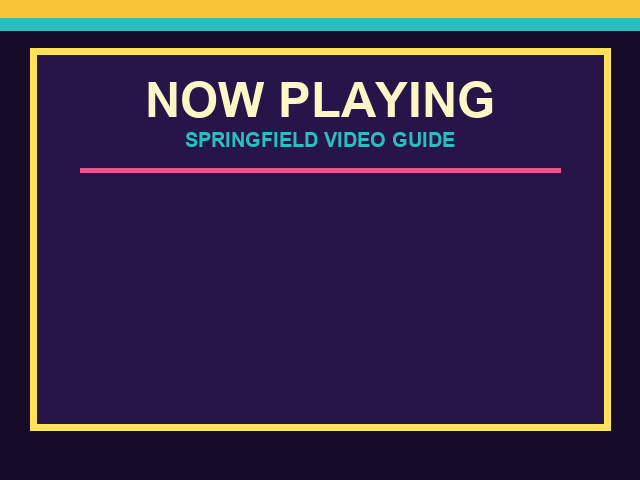
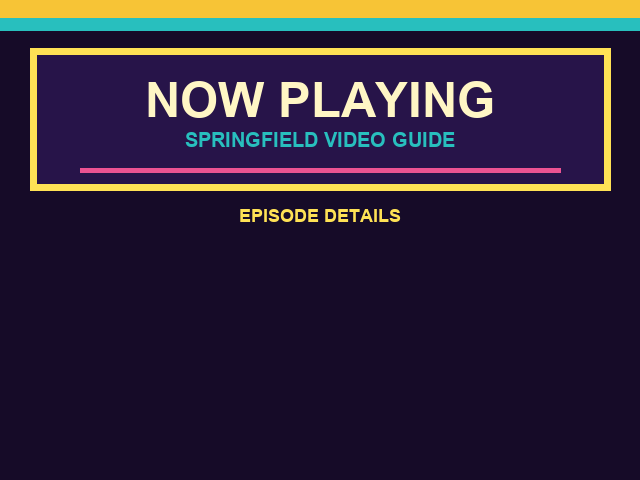
Refine touch timing and info overlay

diff --git a/touch_control.py b/touch_control.py
@@ -39,6 +39,7 @@ def load_touch_config():
         "swipe_axis_ratio": 1.5,
         "menu_hold_seconds": 2.0,
         "shutdown_hold_seconds": 3.0,
+        "info_alpha": 170,
     }
     try:
         with (REPOSITORY_ROOT / "config" / "touch.json").open() as config_file:
@@ -122,7 +123,9 @@ def run():
     tracker = MultiTouchTracker()
     menu = None
     info_overlay = OmxInfoOverlay(
-        REPOSITORY_ROOT / "assets", REPOSITORY_ROOT / "runtime"
+        REPOSITORY_ROOT / "assets",
+        REPOSITORY_ROOT / "runtime",
+        alpha=touch_config["info_alpha"],
     )
     menu_open = False
     menu_armed = False
@@ -148,6 +151,34 @@ def run():
         ),
         flush=True,
     )
+
+    def open_channel_menu():
+        nonlocal menu, menu_open, menu_armed, menu_page, menu_deadline
+        try:
+            info_overlay.close()
+            state_store.set_menu_open(True)
+            time.sleep(0.4)
+            menu = OmxChannelMenu(REPOSITORY_ROOT / "assets")
+            active_channel = state_store.load().channel_id
+            menu_page = page_for_channel(active_channel)
+            menu.show(active_channel, page=menu_page)
+            menu_open = True
+            menu_armed = False
+            gesture_detector.reset()
+            menu_deadline = time.monotonic() + MENU_TIMEOUT_SECONDS
+            print("Channel menu opened", flush=True)
+        except Exception as error:
+            gesture_detector.reset()
+            if menu is not None:
+                menu.close()
+                menu = None
+            state_store.set_menu_open(False)
+            channel_id = toggle_treehouse_channel(state_store)
+            print(
+                "Menu unavailable (%s); selected channel: %s"
+                % (error, channel_id),
+                flush=True,
+            )
 
     try:
         while True:
@@ -179,36 +210,7 @@ def run():
                         gesture_detector.reset()
 
                     if not menu_open:
-                        hold_contacts = (
-                            tracker.active_count if gesture_detector.hold_eligible else 0
-                        )
-                        if detector.update(hold_contacts, event.timestamp()):
-                            try:
-                                info_overlay.close()
-                                state_store.set_menu_open(True)
-                                time.sleep(0.4)
-                                menu = OmxChannelMenu(REPOSITORY_ROOT / "assets")
-                                active_channel = state_store.load().channel_id
-                                menu_page = page_for_channel(active_channel)
-                                menu.show(active_channel, page=menu_page)
-                                menu_open = True
-                                menu_armed = False
-                                gesture_detector.reset()
-                                menu_deadline = time.monotonic() + MENU_TIMEOUT_SECONDS
-                                print("Channel menu opened", flush=True)
-                            except Exception as error:
-                                gesture_detector.reset()
-                                if menu is not None:
-                                    menu.close()
-                                    menu = None
-                                state_store.set_menu_open(False)
-                                channel_id = toggle_treehouse_channel(state_store)
-                                print(
-                                    "Menu unavailable (%s); selected channel: %s"
-                                    % (error, channel_id),
-                                    flush=True,
-                                )
-                        elif (
+                        if (
                             mapped_released_position is not None
                             and tracker.active_count == 0
                         ):
@@ -216,40 +218,34 @@ def run():
                                 mapped_released_position, event.timestamp()
                             )
                             _log_gesture(gesture, "playback")
-                            if gesture is not None and gesture.kind == "tap":
+                            if (
+                                gesture is not None
+                                and gesture.kind == "tap"
+                                and gesture.duration
+                                < float(touch_config["menu_hold_seconds"])
+                            ):
                                 details = now_playing_store.load()
                                 if details is None:
                                     print("Now-playing details unavailable", flush=True)
                                 else:
                                     try:
-                                        info_overlay.show_details(details)
-                                        print(
-                                            "Now-playing card: %s"
-                                            % details["episode_id"],
-                                            flush=True,
-                                        )
+                                        if info_overlay.show_details(details):
+                                            print(
+                                                "Now-playing card: %s"
+                                                % details["episode_id"],
+                                                flush=True,
+                                            )
+                                        else:
+                                            print(
+                                                "Now-playing card already visible",
+                                                flush=True,
+                                            )
                                     except Exception as error:
                                         print(
                                             "Now-playing card unavailable (%s)" % error,
                                             flush=True,
                                         )
                     else:
-                        shutdown_contact = False
-                        if menu_armed and active_position is not None:
-                            shutdown_contact = shutdown_at(active_position)
-                        if shutdown_detector.update(
-                            1
-                            if shutdown_contact and gesture_detector.hold_eligible
-                            else 0,
-                            event.timestamp(),
-                        ):
-                            print("Safe shutdown requested", flush=True)
-                            _request_shutdown(menu, state_store)
-                            menu_open = False
-                            menu = None
-                            detector.update(0, event.timestamp())
-                            continue
-
                         if not menu_armed and tracker.active_count == 0:
                             # Ignore the release belonging to the opening hold.
                             menu_armed = True
@@ -294,6 +290,41 @@ def run():
                                     menu_open = _close_menu(menu, state_store)
                                     menu = None
                                     detector.update(0, event.timestamp())
+
+            # Goodix sends no events while a finger is perfectly still. Drive
+            # the hold timers from the polling clock so stationary holds still
+            # fire at their configured durations.
+            now = time.time()
+            if not menu_open:
+                hold_contacts = (
+                    tracker.active_count if gesture_detector.hold_eligible else 0
+                )
+                if detector.update(hold_contacts, now):
+                    open_channel_menu()
+            else:
+                active_raw_position = tracker.primary_position
+                active_position = (
+                    mapper.map(*active_raw_position)
+                    if active_raw_position is not None
+                    else None
+                )
+                shutdown_contact = (
+                    menu_armed
+                    and active_position is not None
+                    and shutdown_at(active_position)
+                )
+                if shutdown_detector.update(
+                    1
+                    if shutdown_contact and gesture_detector.hold_eligible
+                    else 0,
+                    now,
+                ):
+                    print("Safe shutdown requested", flush=True)
+                    _request_shutdown(menu, state_store)
+                    menu_open = False
+                    menu = None
+                    detector.update(0, now)
+                    continue
 
             if menu_open and time.monotonic() >= menu_deadline:
                 print("Channel menu timed out", flush=True)

diff --git a/tests/test_menu.py b/tests/test_menu.py
@@ -73,9 +73,9 @@ class MenuTests(unittest.TestCase):
             assets.mkdir()
             background = assets / "now_playing_background.mp4"
             background.touch()
-            overlay = OmxInfoOverlay(assets, root / "runtime")
+            overlay = OmxInfoOverlay(assets, root / "runtime", alpha=170)
 
-            overlay.show_details(
+            shown = overlay.show_details(
                 {
                     "title": "Springfield",
                     "season": 5,
@@ -88,10 +88,28 @@ class MenuTests(unittest.TestCase):
             command = popen.call_args.args[0]
             self.assertIn("--layer", command)
             self.assertEqual(command[command.index("--layer") + 1], "10")
+            self.assertEqual(command[command.index("--alpha") + 1], "170")
             self.assertIn("--subtitles", command)
+            self.assertTrue(shown)
             subtitle = root / "runtime" / "now_playing.srt"
             self.assertIn("Springfield", subtitle.read_text())
             self.assertIn("SEASON 5  |  EPISODE 10  |  1993", subtitle.read_text())
+
+    @mock.patch("tv.menu.subprocess.Popen")
+    def test_info_overlay_ignores_repeat_tap_while_visible(self, popen):
+        with tempfile.TemporaryDirectory() as temporary_directory:
+            root = Path(temporary_directory)
+            assets = root / "assets"
+            assets.mkdir()
+            (assets / "now_playing_background.mp4").touch()
+            popen.return_value.poll.return_value = None
+            overlay = OmxInfoOverlay(assets, root / "runtime")
+            details = {"title": "Springfield"}
+
+            self.assertTrue(overlay.show_details(details))
+            self.assertFalse(overlay.show_details(details))
+
+            popen.assert_called_once()
 
 
 if __name__ == "__main__":

diff --git a/tv/menu.py b/tv/menu.py
@@ -105,15 +105,17 @@ class OmxChannelMenu:
 class OmxInfoOverlay(OmxChannelMenu):
     """Show a short, silent program card above uninterrupted playback."""
 
-    def __init__(self, asset_directory, runtime_directory):
+    def __init__(self, asset_directory, runtime_directory, alpha=170):
         super().__init__(asset_directory)
         self.runtime_directory = Path(runtime_directory)
+        self.alpha = int(alpha)
 
     def show_details(self, details):
         asset = self.asset_directory / "now_playing_background.mp4"
         if not asset.is_file():
             raise RuntimeError("Now-playing background is missing: %s" % asset)
-        self.close()
+        if self.process is not None and self.process.poll() is None:
+            return False
         self.runtime_directory.mkdir(parents=True, exist_ok=True)
         subtitle = self.runtime_directory / "now_playing.srt"
         subtitle.write_text(self._subtitle_text(details))
@@ -124,6 +126,8 @@ class OmxInfoOverlay(OmxChannelMenu):
                 "--no-keys",
                 "--layer",
                 "10",
+                "--alpha",
+                str(self.alpha),
                 "--aspect-mode",
                 "fill",
                 "--vol",
@@ -140,6 +144,7 @@ class OmxInfoOverlay(OmxChannelMenu):
             ],
             start_new_session=True,
         )
+        return True
 
     @staticmethod
     def _subtitle_text(details):

diff --git a/tools/build_menu_assets.py b/tools/build_menu_assets.py
@@ -137,10 +137,14 @@ def build_now_playing_background():
     draw = ImageDraw.Draw(image)
     draw.rectangle((0, 0, WIDTH, 18), fill=(247, 196, 54))
     draw.rectangle((0, 18, WIDTH, 30), fill=(40, 191, 190))
-    draw.rectangle((30, 48, 610, 430), fill=(39, 20, 73), outline=(255, 226, 85), width=7)
+    # OMXPlayer anchors SRT subtitles near the bottom and has no vertical
+    # positioning option. Frame only the fixed heading and leave the lower
+    # portion clear for episode metadata.
+    draw.rectangle((30, 48, 610, 190), fill=(39, 20, 73), outline=(255, 226, 85), width=7)
     centered(draw, "NOW PLAYING", WIDTH // 2, 72, font(49), (255, 246, 197))
     centered(draw, "SPRINGFIELD VIDEO GUIDE", WIDTH // 2, 128, font(20), (40, 191, 190))
     draw.line((80, 170, 560, 170), fill=(236, 83, 146), width=5)
+    centered(draw, "EPISODE DETAILS", WIDTH // 2, 205, font(18), (255, 226, 85))
     return image
 
 

diff --git a/README.md b/README.md
@@ -93,7 +93,8 @@ systemd before restarting it.
 
 Quickly tap the playing picture to show a four-second program card with the
 episode title, season, episode number, original broadcast year, and active
-channel. The episode continues underneath the silent card.
+channel. The episode continues underneath the translucent, silent card.
+Additional taps are ignored until the four-second card closes.
 
 Hold one stationary finger on the screen for two seconds to open the
 full-screen channel menu. Playback pauses while the menu is visible. Release
